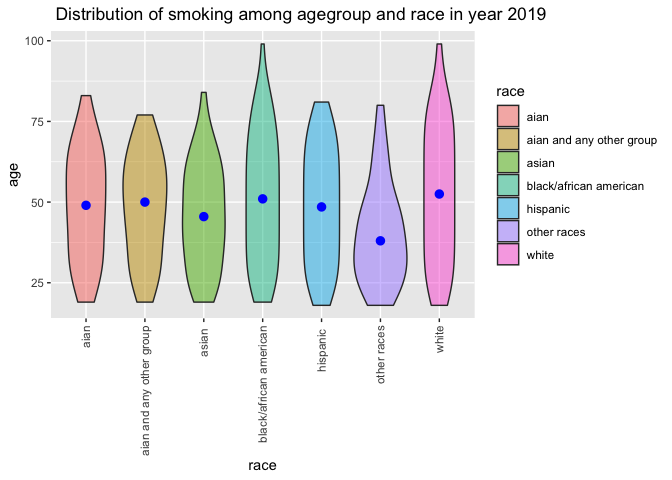
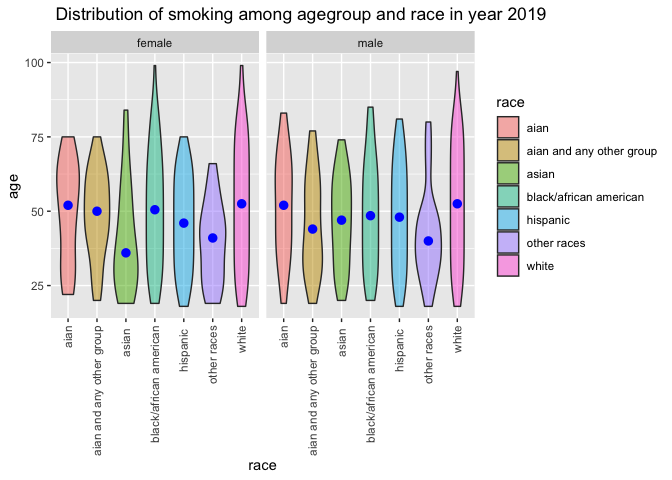
sex seperated...

Changed region(s): [[0.0312, 0.0625, 1.0, 0.9375], [0.0312, 0.125, 0.0938, 0.1562], [0.0, 0.3438, 0.0312, 0.4062]]

diff --git a/tidy_data.md b/tidy_data.md
@@ -236,13 +236,15 @@ df4 = finding_smoking_dis(smoke_trend_2017)%>%
 #year 2020 smoking distribution
 df1%>%
 filter(smoking_status =="smoker")%>%
-  count(race,age)%>%
-  ggplot(aes(x =race, y =age)) + 
+  count(race,age,sex)%>%
+  ggplot(aes(x =race, y =age,)) + 
   geom_violin(aes(fill = race), alpha = .5) + 
-  stat_summary(fun = "median", color = "blue")+
+  stat_summary(fun = "median", color = "blue")+facet_grid(.~sex)+ 
   labs(title=" Distribution of smoking among agegroup and race in year 2020")+ 
   theme(axis.text.x = element_text(angle = 90, vjust = 0.5, hjust=1))
 ```
+
+    ## Warning: Removed 7 rows containing missing values (geom_segment).
 
     ## Warning: Removed 7 rows containing missing values (geom_segment).
 
@@ -251,12 +253,14 @@ filter(smoking_status =="smoker")%>%
 ``` r
 df2%>%
 filter(smoking_status =="smoker")%>%
-  count(race,age)%>%
+  count(race,age,sex)%>%
   ggplot(aes(x =race, y =age)) + 
   geom_violin(aes(fill = race), alpha = .5) + 
-  stat_summary(fun = "median", color = "blue")+
+  stat_summary(fun = "median", color = "blue")+ facet_grid(.~sex)+ 
   labs(title=" Distribution of smoking among agegroup and race in year 2019") + theme(axis.text.x = element_text(angle = 90, vjust = 0.5, hjust=1))
 ```
+
+    ## Warning: Removed 7 rows containing missing values (geom_segment).
 
     ## Warning: Removed 7 rows containing missing values (geom_segment).
 
@@ -265,12 +269,15 @@ filter(smoking_status =="smoker")%>%
 ``` r
 df3%>%
 filter(smoking_status =="smoker")%>%
-  count(race,age)%>%
+  count(race,age,sex)%>%
   ggplot(aes(x =race, y =age)) + 
   geom_violin(aes(fill = race), alpha = .5) + 
   stat_summary(fun = "median", color = "blue")+
+   facet_grid(.~sex)+ 
   labs(title=" Distribution of smoking among agegroup and race in year 2018") + theme(axis.text.x = element_text(angle = 90, vjust = 0.5, hjust=1))
 ```
+
+    ## Warning: Removed 6 rows containing missing values (geom_segment).
 
     ## Warning: Removed 6 rows containing missing values (geom_segment).
 
@@ -278,13 +285,15 @@ filter(smoking_status =="smoker")%>%
 
 ``` r
 df4%>%
-filter(smoking_status =="smoker")%>%
-  count(race,age)%>%
+  filter(smoking_status =="smoker")%>%
+  count(race,age,sex)%>%
   ggplot(aes(x =race, y =age)) + 
   geom_violin(aes(fill = race), alpha = .5) + 
   stat_summary(fun = "median", color = "blue")+
-  labs(title=" Distribution of smoking among agegroup and race in year 2017") + theme(axis.text.x = element_text(angle = 90, vjust = 0.5, hjust=1))
+  facet_grid(.~sex)+ labs(title=" Distribution of smoking among agegroup and race in year 2017") + theme(axis.text.x = element_text(angle = 90, vjust = 0.5, hjust=1))
 ```
+
+    ## Warning: Removed 6 rows containing missing values (geom_segment).
 
     ## Warning: Removed 6 rows containing missing values (geom_segment).
 
